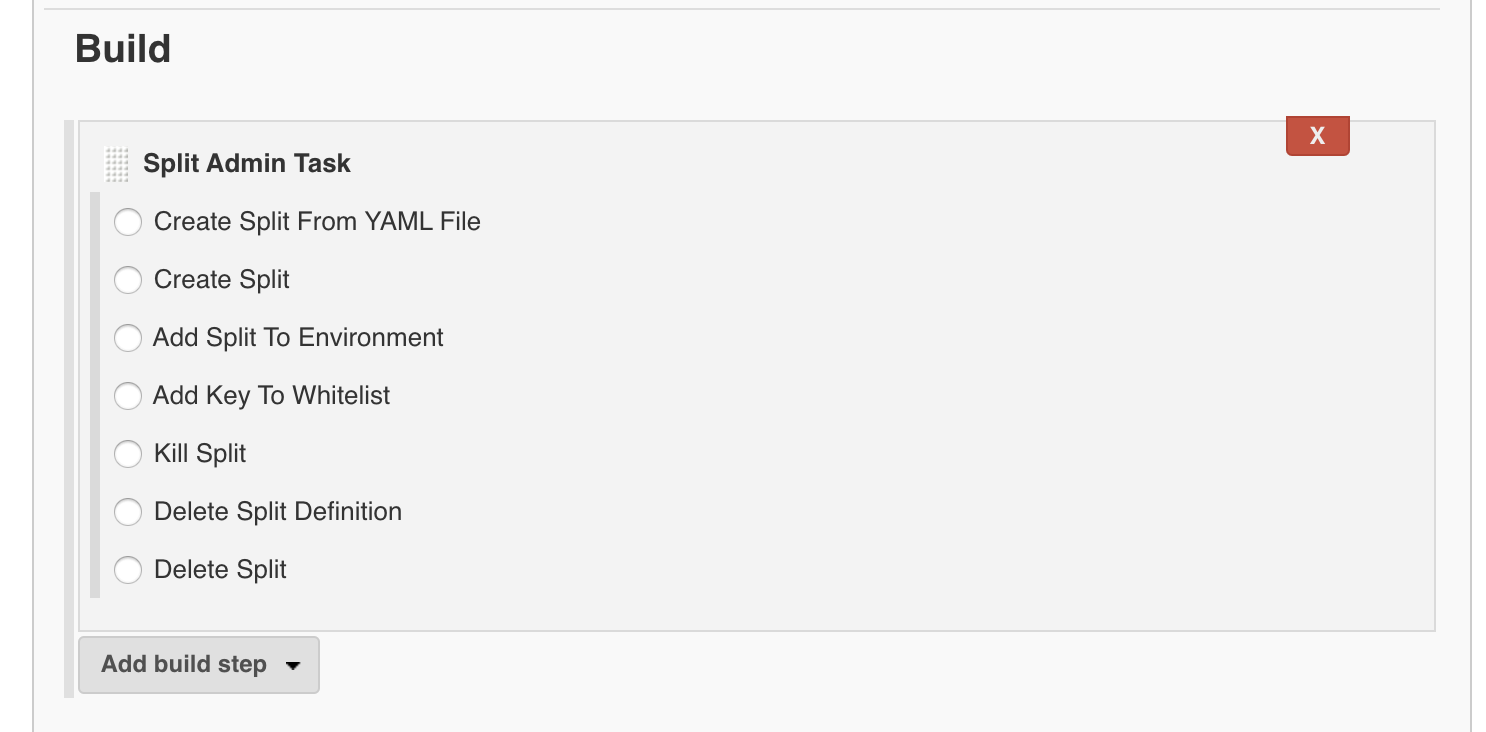
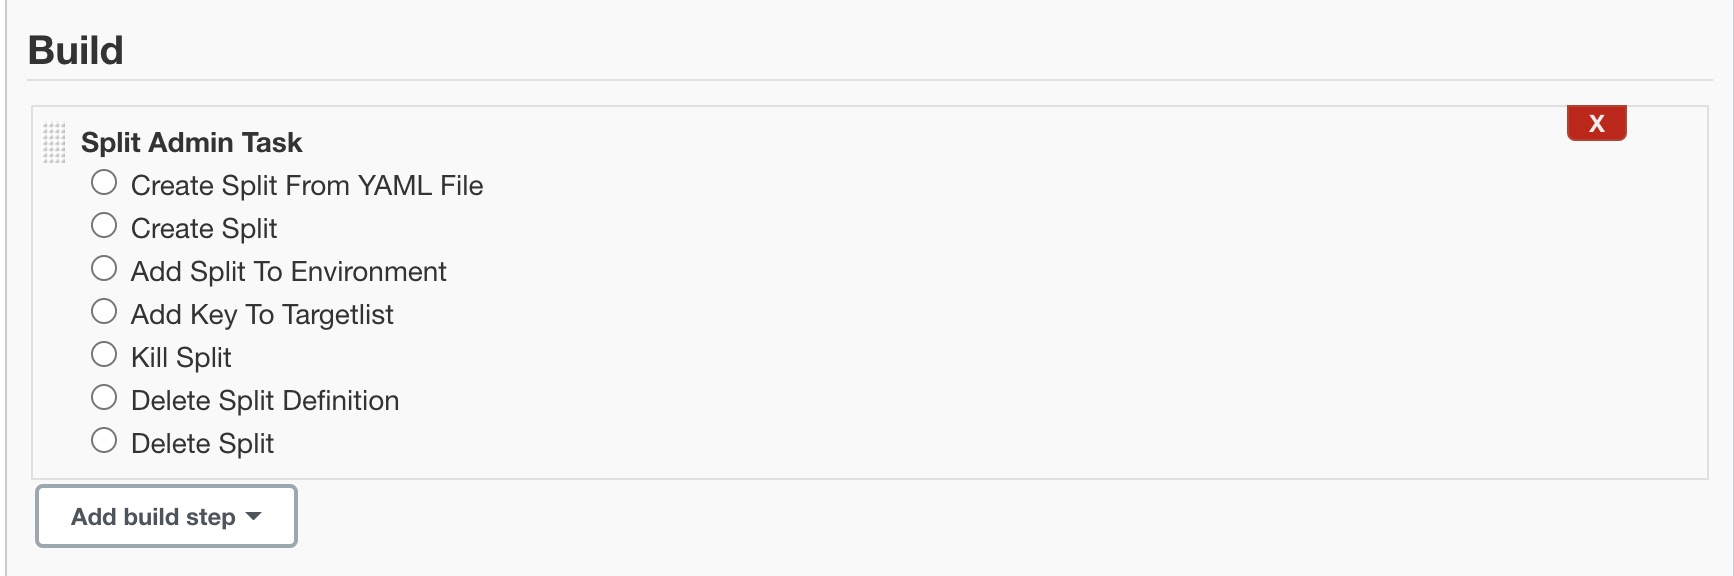
updated readme and replaced tasks image

Changed region(s): [[0.0, 0.0312, 0.9906, 0.9688]]

diff --git a/README.md b/README.md
@@ -30,7 +30,7 @@ io.split.jenkins.plugins
 
 ## Supported Tasks
 
- * **Create Split From YAML File**: This task will read a given YAML file populated with Splits containing treatments, whitelisted keys, dynamic configs and percentages for default rule, see YAML format section below. The plugin will check if Split and Split definitions exists in the given workspace/environment, if not, the subtask is skipped, the fields below are required:
+ * **Create Split From YAML File**: This task will read a given YAML file populated with Splits containing treatments, individual target keys, dynamic configs and percentages for default rule, see YAML format section below. The plugin will check if Split and Split definitions exists in the given workspace/environment, if not, the subtask is skipped, the fields below are required:
     `Workspace Name`
     `Environment Name`
     `Traffic Type Name`
@@ -48,12 +48,12 @@ io.split.jenkins.plugins
     `Split Definitions`
 The Split Definitions field should match the JSON structure accepted by Split Admin API, see the [API reference](https://docs.split.io/reference#create-split-definition-in-environment) for more info.
 
- * **Add Key To Whitelist**: This task will add new key to a treatment's whitelist section of an existing Split definitions, the fields below are required:
+ * **Add Key To Targetlist**: This task will add new key to a treatment's targetlist section of an existing Split definitions, the fields below are required:
     `Workspace Name`
     `Environment Name`
     `Split Name`
     `Treatment Name`
-    `Whitelist Key`
+    `Targetlist Key`
     
  * **Kill Split**: This task will perform "Kill" action on a given Split in an Environment,  the fields below are required:
     `Workspace Name`
@@ -79,7 +79,7 @@ The Split Definitions field should match the JSON structure accepted by Split Ad
 
 ### Examples
 
- * Split below has 3 treatments (on/off/unallocated), only "on" treatment contains whitelisted id "key1". For default rule, "on" is set to 80%, "off" is set to 10%, the plugin will assign the last 10% to "unallocated" treatment. 
+ * Split below has 3 treatments (on/off/unallocated), only "on" treatment contains targetlisted id "key1". For default rule, "on" is set to 80%, "off" is set to 10%, the plugin will assign the last 10% to "unallocated" treatment. 
 ```yaml
 - percentage_less_100_split:
     treatment: "on"
@@ -103,7 +103,7 @@ The Split Definitions field should match the JSON structure accepted by Split Ad
 - one_treatment_split:
     treatment: "one"
 ```    
- * Split below has two treatments with their dynamic configs, treatment "off" has two keys in whitelist section, default rule has only "on" treatment set to 50%, the plugin will add "off" with 50%.
+ * Split below has two treatments with their dynamic configs, treatment "off" has two keys in targetlist section, default rule has only "on" treatment set to 50%, the plugin will add "off" with 50%.
 ```yaml
 - correct_data_split:
     treatment: "on"
